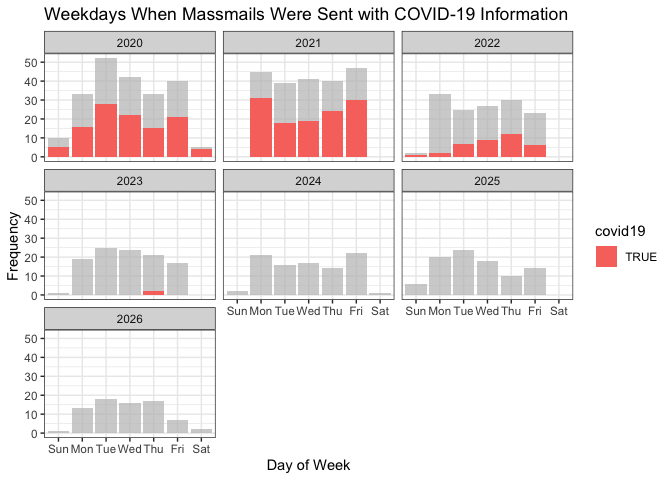
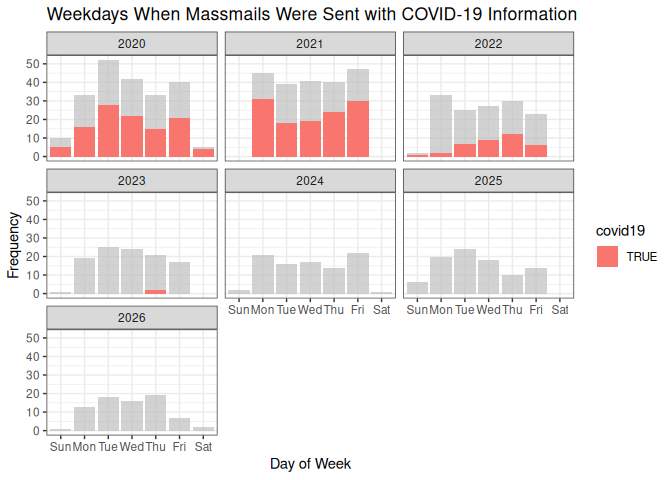
Re-build README.Rmd and Graphs

Changed region(s): [[0.0, 0.0, 0.9688, 0.9688], [0.375, 0.9375, 0.5312, 1.0], [0.25, 0.1562, 0.2812, 0.1875]]

diff --git a/README.md b/README.md
@@ -18,7 +18,7 @@ The archive may be viewed here:
 
 <https://massmail.illinois.edu/massmailArchive>
 
-Data has **1992** observations and **7** variables:
+Data has **1994** observations and **7** variables:
 
 - `datetime`: Date and time when the email was sent, as an ISO 8601
   timestamp carrying the Urbana-Champaign offset,
@@ -218,16 +218,16 @@ head(most_popular_words, 10) %>%
 
 | word        | freq |
 |:------------|-----:|
-| university  | 2755 |
-| students    | 2232 |
+| university  | 2760 |
+| students    | 2235 |
 | campus      | 1954 |
-| illinois    | 1928 |
+| illinois    | 1934 |
 | student     | 1428 |
-| faculty     | 1273 |
+| faculty     | 1275 |
 | health      | 1186 |
-| community   | 1173 |
+| community   | 1175 |
 | information | 1146 |
-| staff       | 1113 |
+| staff       | 1116 |
 
 #### Wordcloud
 
